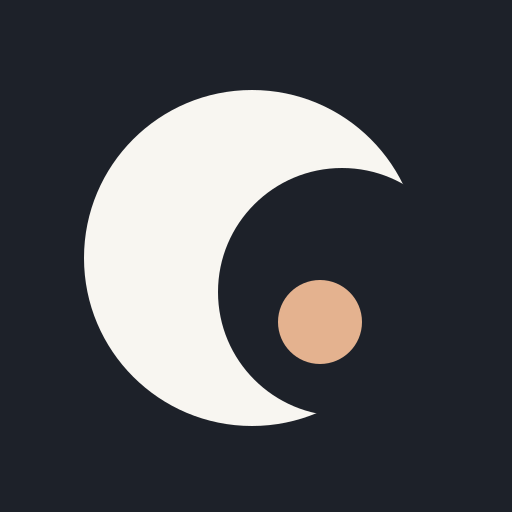
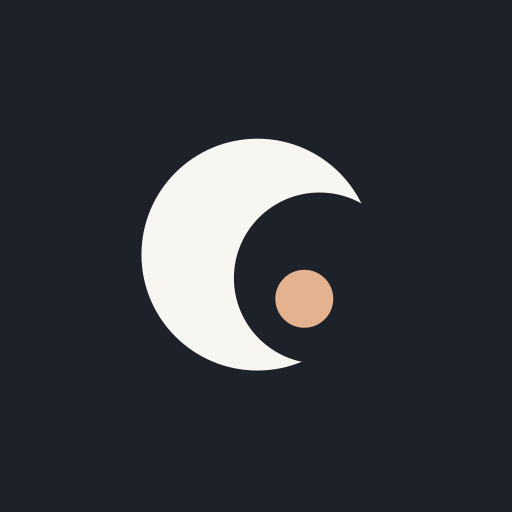
시작 화면 아이콘: 사각형 배경 제거·달 크기를 앱 시작 화면과 맞춤
- manifest 'any' 아이콘을 시작 화면용(달 0.69배, 바탕 #1D2129)으로 교체
- 홈 화면 아이콘은 maskable 아이콘 따로 추가(달 크게)
- 앱 시작 화면의 달을 세로 한가운데로 옮겨 OS 시작 화면과 같은 자리·크기로 이어짐
- 키 작은 폰은 간격 축소, 아주 작으면 도장 생략
- manifest 아이콘 주소에 버전 추가(옛 아이콘 캐시 방지)

Claude-Session: https://claude.ai/code/session_01Jz2hffvhiGaqUasaviPWmc

Changed region(s): [[0.1562, 0.1562, 0.7812, 0.8438]]

diff --git a/assets/brand-2026/splash.css b/assets/brand-2026/splash.css
@@ -1,10 +1,12 @@
 /* 앱 시작 화면 (2026-11-16 정오님 확정: 먹빛 밤 + 오늘 날짜 + 도장 + 브랜드 한 줄)
    설치형 앱(standalone)으로 켰을 때만 보인다. 확인용: 주소 끝에 ?splash=1 */
-#dalhaSplash{position:fixed;inset:0;z-index:99999;display:none;flex-direction:column;align-items:center;justify-content:center;
+#dalhaSplash{position:fixed;inset:0;z-index:99999;display:none;flex-direction:column;align-items:center;justify-content:flex-start;
   background:#1D2129;color:#FDFCF9;transition:opacity .35s ease}
 #dalhaSplash.on{display:flex}
+/* 달을 화면 세로 한가운데에 둔다: OS가 먼저 띄우는 시작 화면(아이콘)의 달과 같은 자리·같은 크기라 끊김 없이 이어진다. 글자는 그 아래로 */
+#dalhaSplash::before{content:"";flex:0 0 50%}
 #dalhaSplash.out{opacity:0;pointer-events:none}
-#dalhaSplash .sp-moon{width:132px;height:132px;overflow:visible;animation:spRise .9s cubic-bezier(.2,.8,.2,1) both}
+#dalhaSplash .sp-moon{width:132px;height:132px;margin-top:-66px;overflow:visible}
 #dalhaSplash .sp-title{font-family:'Song Myung','Noto Serif KR',serif;font-weight:400;font-synthesis:none;
   font-size:56px;line-height:1;margin-top:40px;letter-spacing:.06em;padding-left:.06em}
 #dalhaSplash .sp-date{margin-top:18px;font-size:14px;color:rgba(253,252,249,.62)}
@@ -29,3 +31,7 @@
 @keyframes spStamp{0%{opacity:0;transform:rotate(-7deg) scale(1.5)}100%{opacity:1;transform:rotate(-7deg) scale(1)}}
 @media (prefers-reduced-motion:reduce){#dalhaSplash,#dalhaSplash .sp-moon,#dalhaSplash .sp-phrase,#dalhaSplash .sp-seal{animation:none;transition:none}
   #dalhaSplash .sp-star{animation:none;opacity:.45}}
+
+/* 키가 작은 폰: 가운데 달 아래 내용이 넘치지 않게 간격을 줄이고, 아주 작으면 도장을 뺀다 */
+@media (max-height:780px){#dalhaSplash .sp-title{margin-top:28px}#dalhaSplash .sp-phrase{margin-top:30px}#dalhaSplash .sp-seal{margin-top:24px}}
+@media (max-height:700px){#dalhaSplash .sp-seal{display:none}}

diff --git a/index.html b/index.html
@@ -566,7 +566,7 @@ var DalhaHangul=(()=>{var g=Object.defineProperty;var d=Object.getOwnPropertyDes
     <link rel="stylesheet" href="/assets/brand-2026/refine.css?v=20261121-el1">
     <link href="https://fonts.googleapis.com/css2?family=Song+Myung&display=swap" rel="stylesheet">
     <link rel="stylesheet" href="/assets/brand-2026/ilryeok.css?v=20261108-p5">
-    <link rel="stylesheet" href="/assets/brand-2026/splash.css?v=20261120-s3">
+    <link rel="stylesheet" href="/assets/brand-2026/splash.css?v=20261121-s5">
     <script src="/assets/reading-polish.js?v=20261113-hier1" defer></script>
     <script src="/assets/brand-2026/brand-ui.js?v=20261108-p1" defer></script>
 </head>
